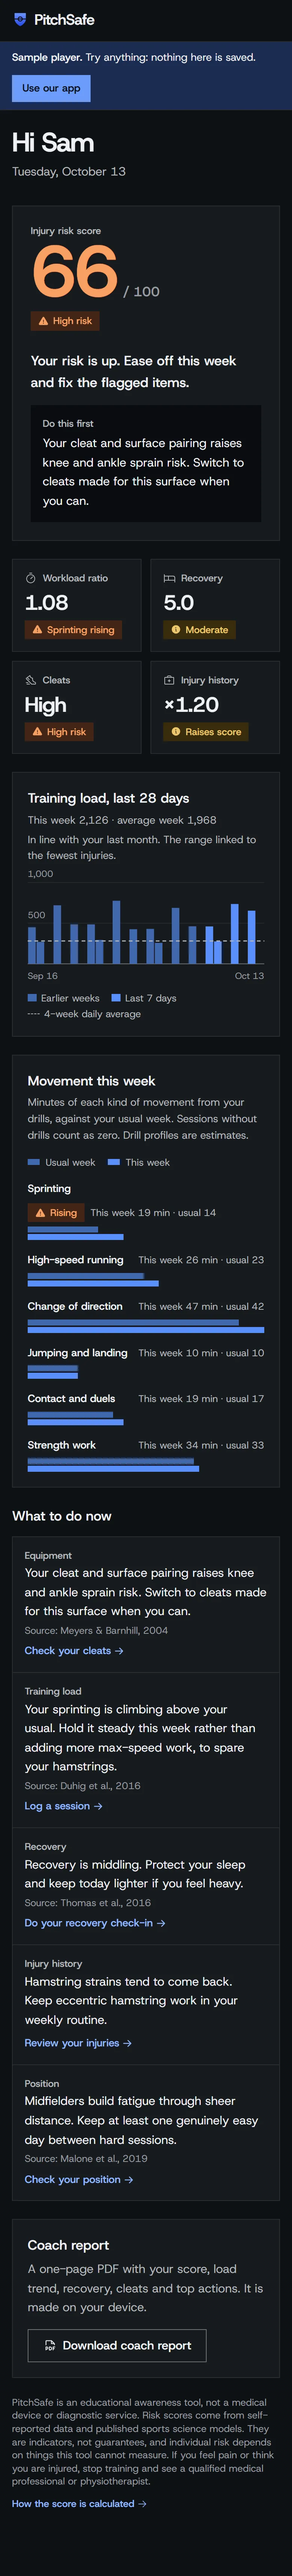
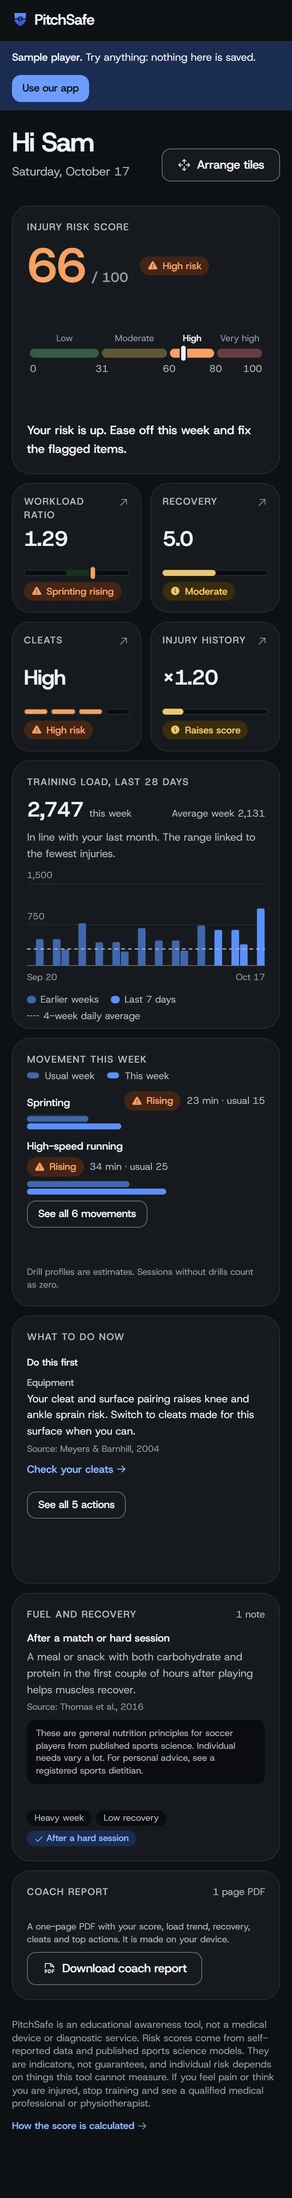
style: rounded polish

Changed region(s): [[0.0, 0.0, 1.0, 0.9678], [0.8, 0.5931, 0.8615, 0.6868]]

diff --git a/src/pages/home/walkthrough.tsx b/src/pages/home/walkthrough.tsx
@@ -4,9 +4,10 @@
 // screen, on keyboard focus and with the Pause button; reduced motion
 // shows a still, numbered version instead.
 import { useEffect, useId, useRef, useState, type CSSProperties, type FocusEvent } from 'react';
-import { motion, useReducedMotion } from 'motion/react';
+import { motion } from 'motion/react';
 import { Pause, Play } from '@phosphor-icons/react';
 import { Button } from '@/components/ui/button';
+import { usePrefersReducedMotion } from '@/lib/use-prefers-reduced-motion';
 import { cn } from '@/lib/utils';
 
 type Target = { label: string; x: number; y: number };
@@ -77,7 +78,7 @@ function useInView<T extends Element>(ref: React.RefObject<T | null>) {
 }
 
 export function Walkthrough() {
-  const reduce = useReducedMotion();
+  const reduce = usePrefersReducedMotion();
   const uid = useId();
   const phoneRef = useRef<HTMLDivElement>(null);
   const inView = useInView(phoneRef);
@@ -150,7 +151,7 @@ export function Walkthrough() {
     <section
       id="walkthrough"
       aria-labelledby="walkthrough-title"
-      className="scroll-mt-24 px-5 py-24 sm:px-8 lg:py-32"
+      className="px-5 py-24 sm:px-8 lg:py-32"
       onFocus={onFocus}
       onBlur={onBlur}
     >
@@ -230,7 +231,7 @@ export function Walkthrough() {
                         </span>
                       </span>
                     </span>
-                    <span aria-hidden className="absolute inset-x-0 bottom-0 h-0.5 bg-white/10">
+                    <span aria-hidden className="absolute inset-x-5 bottom-2.5 h-0.5 overflow-hidden rounded-[var(--radius-chip)] bg-white/10 sm:inset-x-6">
                       {active && bar(s)}
                     </span>
                   </button>
@@ -272,7 +273,7 @@ export function Walkthrough() {
                   <span
                     key={t.label}
                     aria-hidden
-                    className="absolute z-10 grid size-7 -translate-x-1/2 -translate-y-1/2 place-items-center rounded-full border-2 border-white bg-[#2346e0] text-label font-bold text-white"
+                    className="absolute z-10 grid size-7 -translate-x-1/2 -translate-y-1/2 place-items-center rounded-[var(--radius-chip)] border-2 border-white bg-[#2346e0] text-label font-bold text-white"
                     style={{ left: `${t.x}%`, top: `${t.y}%` }}
                   >
                     {i + 1}
@@ -286,8 +287,8 @@ export function Walkthrough() {
                   animate={{ left: `${target.x}%`, top: `${target.y}%` }}
                   transition={{ type: 'spring', stiffness: 170, damping: 24 }}
                 >
-                  <span key={`${step.id}-${tapIndex}-${runId}`} className="walk-ripple absolute size-14 -translate-x-1/2 -translate-y-1/2 rounded-full border-2 border-[#a6d8ff]" />
-                  <span className="absolute size-9 -translate-x-1/2 -translate-y-1/2 rounded-full border-2 border-white bg-white/25 shadow-[0_0_24px_rgb(166_216_255/0.8)] backdrop-blur-[1px]" />
+                  <span key={`${step.id}-${tapIndex}-${runId}`} className="walk-ripple absolute size-14 -translate-x-1/2 -translate-y-1/2 rounded-[var(--radius-chip)] border-2 border-[#a6d8ff]" />
+                  <span className="absolute size-9 -translate-x-1/2 -translate-y-1/2 rounded-[var(--radius-chip)] border-2 border-white bg-white/25 shadow-[0_0_24px_rgb(166_216_255/0.8)] backdrop-blur-[1px]" />
                   <span
                     key={`label-${step.id}-${tapIndex}-${runId}`}
                     className={cn(

diff --git a/src/app/shell.tsx b/src/app/shell.tsx
@@ -78,6 +78,10 @@ const tabs = (base: string): NavItem[] => [
   { to: `${base}/injuries`, label: 'Injuries', icon: FirstAidKit },
 ];
 
+// The bar's items fill its whole height and sit on the screen edge, so the default ring (2px outside) would
+// draw off screen and over the bar's top border. Draw it inside the item instead.
+const BAR_FOCUS = 'focus-visible:-outline-offset-2';
+
 function BottomBar() {
   const [moreOpen, setMoreOpen] = useState(false);
   const base = useAppBase();
@@ -91,7 +95,7 @@ function BottomBar() {
         <div className="mx-auto grid h-16 max-w-md grid-cols-5">
           {tabs(base).map(({ to, label, icon: Icon, end }) =>
             to === `${base}/log` ? (
-              <NavLink key={to} to={to} className="grid place-items-center rounded-[var(--radius-control)]" aria-label="Log a session">
+              <NavLink key={to} to={to} className={cn('grid place-items-center rounded-[var(--radius-control)]', BAR_FOCUS)} aria-label="Log a session">
                 {({ isActive }) => (
                   <span className={cn('press grid size-12 place-items-center rounded-[var(--radius-control)] bg-accent text-on-accent shadow-lift', isActive && 'ring-4 ring-accent-soft')}>
                     <Icon aria-hidden weight="bold" className="size-6" />
@@ -103,7 +107,7 @@ function BottomBar() {
                 key={to}
                 to={to}
                 end={end}
-                className={({ isActive }) => cn('flex flex-col items-center justify-center gap-0.5 rounded-[var(--radius-control)] text-caption font-semibold', isActive ? 'text-accent-ink' : 'text-ink-2')}
+                className={({ isActive }) => cn('flex flex-col items-center justify-center gap-0.5 rounded-[var(--radius-control)] text-caption font-semibold', BAR_FOCUS, isActive ? 'text-accent-ink' : 'text-ink-2')}
               >
                 {({ isActive }) => (
                   <>
@@ -117,7 +121,7 @@ function BottomBar() {
           <button
             type="button"
             onClick={() => setMoreOpen(true)}
-            className={cn('flex flex-col items-center justify-center gap-0.5 rounded-[var(--radius-control)] text-caption font-semibold', moreActive ? 'text-accent-ink' : 'text-ink-2')}
+            className={cn('flex flex-col items-center justify-center gap-0.5 rounded-[var(--radius-control)] text-caption font-semibold', BAR_FOCUS, moreActive ? 'text-accent-ink' : 'text-ink-2')}
           >
             <DotsThreeOutline aria-hidden weight={moreActive ? 'fill' : 'regular'} className="size-6" />
             More

diff --git a/src/pages/home/home.tsx b/src/pages/home/home.tsx
@@ -89,7 +89,7 @@ function ProductReveal() {
 function PhoneReveal() {
   const [paused, setPaused] = useState(false);
   return (
-    <section id="score" className="scroll-mt-24 px-5 pt-20 pb-16" aria-labelledby="score-title">
+    <section id="score" className="px-5 pt-20 pb-16" aria-labelledby="score-title">
       <h2 id="score-title" className="mx-auto max-w-[16ch] text-center font-display text-[2.25rem] leading-[1] font-bold tracking-[-0.04em] text-balance text-white">
         {SCORE_TITLE}
       </h2>
@@ -100,8 +100,8 @@ function PhoneReveal() {
           <img
             src="/screens/dashboard-mobile-full.webp"
             width={780}
-            height={6868}
-            alt="The full PitchSafe dashboard for a sample player on a phone: risk score 66 out of 100, the top action, workload ratio, recovery, cleats, injury history, the 28-day load chart, movement this week with sprinting rising, five actions and the coach report"
+            height={5862}
+            alt="The full PitchSafe dashboard for a sample player on a phone: risk score 66 out of 100 with its zone gauge, workload ratio, recovery, cleats, injury history, the 28-day load chart, movement this week with sprinting rising, what to do now, fuel and recovery notes and the coach report"
             loading="lazy"
             decoding="async"
             className="dash-scroll block w-full"
@@ -125,7 +125,7 @@ function PhoneReveal() {
 
 function DesktopReveal() {
   return (
-    <section id="score" className="scroll-mt-24 overflow-hidden" aria-labelledby="score-title">
+    <section id="score" className="overflow-hidden" aria-labelledby="score-title">
       <ContainerScroll
         frameClassName="border-white/15 bg-[#0b1020]"
         titleComponent={
@@ -211,7 +211,7 @@ function InputCard({ input, className, children }: { input: (typeof INPUTS)[numb
 function Inputs() {
   const [load, recovery, cleats, injuries] = INPUTS;
   return (
-    <section id="how" className="scroll-mt-24 px-5 pt-8 pb-24 sm:px-8 lg:pb-32">
+    <section id="how" className="px-5 pt-8 pb-24 sm:px-8 lg:pb-32">
       <div className="mx-auto max-w-[1200px]">
         <div className="grid grid-cols-[minmax(0,1fr)] items-end gap-6 md:grid-cols-[minmax(0,1fr)_minmax(0,24rem)]">
           <h2 className="max-w-[14ch] font-display text-[clamp(2.4rem,5.5vw,4.5rem)] leading-[1] font-bold tracking-[-0.04em] text-balance text-white">

diff --git a/src/components/ui/button.tsx b/src/components/ui/button.tsx
@@ -44,19 +44,29 @@ const FILL: Record<Variant, { fill: string; filled?: string }> = {
   inverse: { fill: 'bg-surface', filled: 'text-ink' },
 };
 
-export interface ButtonProps extends Omit<OriginButtonProps, 'fillClassName' | 'filledClassName'>, VariantProps<typeof buttonVariants> {}
+/**
+ * A veil of the ink colour, for a ghost button over a glass bar or a dark sheet. The ghost's own fill (--sunken)
+ * is darker than those grounds in the dark themes, so it reads there as a dark pad; a veil of ink lifts instead.
+ * Pass it as `fillClassName`.
+ */
+const GHOST_WASH = 'bg-[color-mix(in_oklab,var(--ink)_12%,transparent)]';
 
-function Button({ className, variant, size, ...props }: ButtonProps) {
+export interface ButtonProps extends Omit<OriginButtonProps, 'fillClassName' | 'filledClassName'>, VariantProps<typeof buttonVariants> {
+  /** Replaces the variant's fill (a Tailwind `bg-*` class). The text colour that reads over it stays the variant's. */
+  fillClassName?: string;
+}
+
+function Button({ className, variant, size, fillClassName, ...props }: ButtonProps) {
   const { fill, filled } = FILL[variant ?? 'primary'];
   return (
     <OriginButton
       data-slot="button"
       className={cn(buttonVariants({ variant, size }), className)}
-      fillClassName={fill}
+      fillClassName={fillClassName ?? fill}
       filledClassName={filled}
       {...props}
     />
   );
 }
 
-export { Button, buttonVariants };
+export { Button, buttonVariants, GHOST_WASH };

diff --git a/src/motion.css b/src/motion.css
@@ -107,8 +107,7 @@
   z-index: 1;
   transition:
     color            var(--tabs-dur) var(--tabs-ease),
-    background-color 120ms ease,
-    border-color     var(--tabs-dur) var(--tabs-ease);
+    background-color 120ms ease;
 }
 /* Dividers are short hairlines on the seam, not borders: a border on a rounded segment would
    curve round its corners. */
@@ -162,6 +161,16 @@
 }
 @media (prefers-reduced-motion: reduce) {
   .t-tabs-pill, .t-tab, .t-tab::before { transition: none !important; }
+}
+/* Windows high contrast: the browser repaints every background in the Canvas colour, which erases the
+   hairlines and the selected fill, and puts a Canvas backplate behind the text of the selected segment.
+   The hairlines use CanvasText, and the selected segment opts out of the forced repaint and paints its own
+   Highlight background (the sliding fill is hidden, since it cannot show through). */
+@media (forced-colors: active) {
+  .t-tab + .t-tab::before { background: CanvasText; }
+  .t-tabs-pill { display: none; }
+  .t-tab[aria-selected="true"],
+  .t-tab[aria-checked="true"] { forced-color-adjust: none; background: Highlight; color: HighlightText; }
 }
 
 /* ---------- Error state shake ---------- */

diff --git a/src/styles.css b/src/styles.css
@@ -241,6 +241,10 @@
   html {
     -webkit-text-size-adjust: 100%;
     text-rendering: optimizeLegibility;
+    /* Keeps what scrolls into view (a focused control, an anchor target) clear of the bars on the screen
+       edges: the floating header and the phone top bar above, the phone tab bar below, and room for the
+       focus ring either way. Replaces a scroll-margin on each anchor target. */
+    scroll-padding-block: 6rem;
   }
   body {
     background: var(--ground);
@@ -327,4 +331,11 @@
   --sunken: oklch(0.115 0.02 268);
   --line: oklch(0.29 0.02 268);
   --accent-soft: oklch(0.27 0.07 263);
+}
+
+/* Clerk's own focus halo is a 15% white box-shadow, about 1.5:1 on the dark card. Give its controls the same
+   2px ring as the rest of the app. Unlayered on purpose: Clerk injects unlayered styles, which beat anything in a layer. */
+.cl-rootBox :is(a, button, input, select, textarea):focus-visible {
+  outline: 2px solid var(--focus);
+  outline-offset: 2px;
 }

diff --git a/src/components/fx/container-scroll.tsx b/src/components/fx/container-scroll.tsx
@@ -4,13 +4,14 @@
 // instead of framer-motion, typed props, the frame colors as props, and a flat
 // card when the visitor prefers reduced motion.
 import { useEffect, useRef, useState, type ReactNode } from 'react';
-import { motion, useReducedMotion, useScroll, useTransform, type MotionValue } from 'motion/react';
+import { motion, useScroll, useTransform, type MotionValue } from 'motion/react';
+import { usePrefersReducedMotion } from '@/lib/use-prefers-reduced-motion';
 import { cn } from '@/lib/utils';
 
 export function ContainerScroll({ titleComponent, children, frameClassName }: { titleComponent: ReactNode; children: ReactNode; frameClassName?: string }) {
   const containerRef = useRef<HTMLDivElement>(null);
   const { scrollYProgress } = useScroll({ target: containerRef });
-  const reduce = useReducedMotion();
+  const reduce = usePrefersReducedMotion();
   const [isMobile, setIsMobile] = useState(false);
 
   useEffect(() => {

diff --git a/src/components/marketing/header.tsx b/src/components/marketing/header.tsx
@@ -4,7 +4,7 @@
 import { useState } from 'react';
 import { Link } from 'react-router';
 import { List } from '@phosphor-icons/react';
-import { Button } from '@/components/ui/button';
+import { Button, GHOST_WASH } from '@/components/ui/button';
 import { Sheet, SheetContent, SheetDescription, SheetTitle, SheetTrigger } from '@/components/ui/sheet';
 import { Wordmark } from '@/components/wordmark';
 import { useAppAuth } from '@/lib/auth';
@@ -50,7 +50,7 @@ export function MarketingHeader() {
           </Button>
           <Sheet open={open} onOpenChange={setOpen}>
             <SheetTrigger asChild>
-              <Button variant="ghost" size="icon" className="size-10 md:hidden" aria-label="Open menu">
+              <Button variant="ghost" size="icon" fillClassName={GHOST_WASH} className="size-10 md:hidden" aria-label="Open menu">
                 <List aria-hidden />
               </Button>
             </SheetTrigger>

diff --git a/src/components/ui/sheet.tsx b/src/components/ui/sheet.tsx
@@ -4,7 +4,7 @@ import * as React from 'react';
 import { Dialog as SheetPrimitive } from 'radix-ui';
 import { X } from '@phosphor-icons/react';
 import { cn } from '@/lib/utils';
-import { Button } from './button';
+import { Button, GHOST_WASH } from './button';
 
 const Sheet = SheetPrimitive.Root;
 const SheetTrigger = SheetPrimitive.Trigger;
@@ -32,7 +32,7 @@ function SheetContent({
       >
         {children}
         <SheetPrimitive.Close asChild>
-          <Button variant="ghost" size="icon" className="absolute top-3 right-3 text-ink-2">
+          <Button variant="ghost" size="icon" fillClassName={GHOST_WASH} className="absolute top-3 right-3 text-ink-2">
             <X aria-hidden />
             <span className="sr-only">Close</span>
           </Button>

diff --git a/src/components/ui/draggable-widget-grid.tsx b/src/components/ui/draggable-widget-grid.tsx
@@ -23,7 +23,8 @@ import {
   type PointerEvent as ReactPointerEvent,
   type ReactNode,
 } from 'react';
-import { MotionConfig, motion, useDragControls, useReducedMotion } from 'motion/react';
+import { MotionConfig, motion, useDragControls } from 'motion/react';
+import { usePrefersReducedMotion } from '@/lib/use-prefers-reduced-motion';
 import { cn } from '@/lib/utils';
 import {
   candidatesFor,
@@ -171,7 +172,7 @@ const Widget = memo(function Widget({
   renderItem,
 }: WidgetProps) {
   const controls = useDragControls();
-  const reduceMotion = useReducedMotion();
+  const reduceMotion = usePrefersReducedMotion();
   const node = useRef<HTMLDivElement>(null);
   const press = useRef<Press | null>(null);
   const lifted = useRef(false);

diff --git a/src/router.tsx b/src/router.tsx
@@ -11,8 +11,10 @@ function Root() {
       {/* Installed app: a night strip behind the status bar so its white text always reads */}
       <div aria-hidden className="pointer-events-none fixed inset-x-0 top-0 z-40 h-[env(safe-area-inset-top)] bg-[#050810]" />
       <Outlet />
+      {/* app-scope puts the toasts on the app's theme tokens: the Toaster sits outside the app shell, so without it they stay light in dark mode */}
       <Toaster
         position="top-center"
+        className="app-scope"
         toastOptions={{
           classNames: {
             toast: '!rounded-[var(--radius-control)] !border !border-line !bg-surface !text-ink !shadow-overlay !font-sans',

diff --git a/src/app/settings.tsx b/src/app/settings.tsx
@@ -55,7 +55,7 @@ function applyTheme(t: Theme) {
 
 function Card({ id, title, description, children }: { id?: string; title: string; description?: string; children: React.ReactNode }) {
   return (
-    <section id={id} className="scroll-mt-20 rounded-[var(--radius-panel)] border border-line bg-surface p-5 md:p-6">
+    <section id={id} className="rounded-[var(--radius-panel)] border border-line bg-surface p-5 md:p-6">
       <h2 className="text-lead font-semibold text-ink">{title}</h2>
       {description && <p className="mt-1 max-w-xl text-body text-ink-2">{description}</p>}
       <div className="mt-5">{children}</div>
